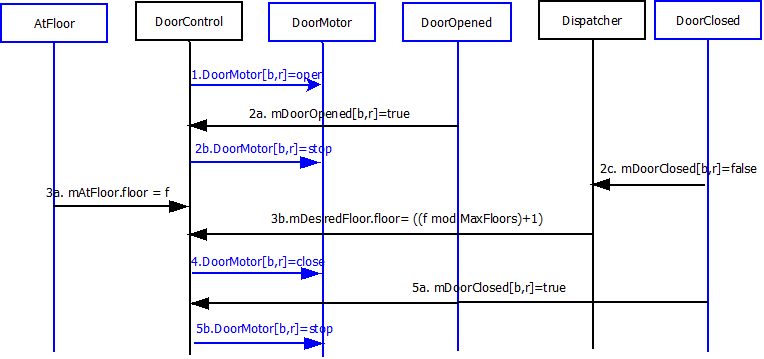
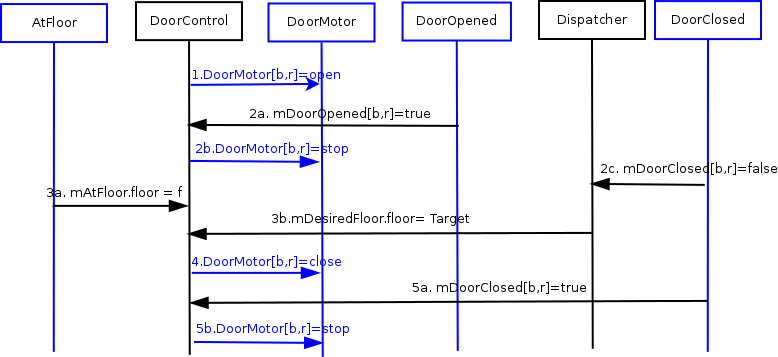
added sd_7e

Changed region(s): [[0.0, 0.0, 1.0, 1.0]]

diff --git a/scen_sd/scen_sd.html b/scen_sd/scen_sd.html
@@ -17,8 +17,6 @@
         Group 9- Yichao Xue &nbsp;&nbsp;&nbsp; &nbsp;&nbsp;&nbsp;
         yichaox<br>
         &nbsp;&nbsp;&nbsp; &nbsp;&nbsp;&nbsp; &nbsp;&nbsp;&nbsp;
-        &nbsp;&nbsp;&nbsp; Priya Mahajan&nbsp;&nbsp;&nbsp; priyam<br>
-        &nbsp;&nbsp;&nbsp; &nbsp;&nbsp;&nbsp; &nbsp;&nbsp;&nbsp;
         &nbsp;&nbsp;&nbsp; Wenhui Hu &nbsp;&nbsp;&nbsp;
         &nbsp;&nbsp;&nbsp; wenhuih <br>
         &nbsp;&nbsp;&nbsp; &nbsp;&nbsp;&nbsp; &nbsp;&nbsp;&nbsp;
@@ -66,7 +64,8 @@
         <ul>
           <li><a href="#scenario7c">Scenario 7C</a></li>
           <li><a href="#Scenario_7D">Scenario 7D</a> (Trace to
-            requirement R-T8.3)<br>
+            requirement R-T8.3)</li>
+          <li><a href="#Scenario_7E">Scenario 7E</a> <br>
           </li>
         </ul>
         <li><a href="#usecase8">8. Move Car to Next Floor</a></li>
@@ -205,9 +204,7 @@
         <li>Door[b, r] starts closing.</li>
         <li>The passenger presses the car call button CarCall[f, b] for
           desired destination [f, b].</li>
-        <ol>
-          <li>The CarLight[f,b] turns on.</li>
-        </ol>
+        <li>The CarLight[f,b] turns on.</li>
         <li>Doors complete closing.</li>
       </ol>
       <h3> Post-Conditions: </h3>
@@ -401,8 +398,7 @@
       <ul type="disc">
       </ul>
       <h3> Sequence Diagram: </h3>
-      <br>
-      <img alt="4A" src="SD_4A_wenhui.png" height="340" width="578"><br>
+      <img alt="4A" src="SD_4A_wenhui.png" height="338" width="578"><br>
       <hr size="2" width="100%">
       <h2> <a name="usecase5" id="usecase5"></a>Use Case 5: Passenger
         Triggers Door Reversal </h2>
@@ -480,14 +476,6 @@
       <h3> <a name="Scenario_6A"></a>Scenario 6A: Car moves from
         hallway f on floor x to adjacent hallway g on floor y and stops.
       </h3>
-      <p> Note: Recall that the Drive of the&nbsp;elevator we provided
-        is never commanded to go Fast, so the elevator only moves Slow
-        and can therefore stop right away when it sees the appropriate
-        AtFloor[f, b](True). Your solution will probably involve the
-        Drive going Fast for some portion of the trip, and the
-        CarLevelPosition Sensor to plan when to slow down. You will be
-        given information on how to design a Fast Drive in the upcoming
-        projects. For Project 2, a Slow Drive will suffice.</p>
       <h3> Author name: Priya Mahajan(priyam@andrew.cmu.edu)<br>
       </h3>
       <h3> Pre-Conditions: </h3>
@@ -601,7 +589,7 @@
           <b>d</b>.</li>
       </ul>
       <h3> Sequence Diagram: </h3>
-      <img alt="" src="SD_7A_YujiaWang.png" height="354" width="922"><br>
+      <img alt="7A" src="SD_7A_YujiaWang.png" height="360" width="860"><br>
       <div align="center">
         <hr align="center" size="2" width="100%"> </div>
       <h3> <a name="scenario7b" id="scenario7b"></a>Scenario 7B:
@@ -642,8 +630,7 @@
         <li>Elevator is at floor <b>f</b>.</li>
       </ul>
       <h3> Sequence Diagram: </h3>
-      <a href="SD_7B_YujiaWang.png"><img alt="7B"
-          src="SD_7B_YujiaWang.png" border="0" height="359" width="1136"></a><br>
+      <img alt="7B" src="SD_7B_YujiaWang.png" height="359" width="1136"><br>
       <div align="center">
         <hr align="center" size="2" width="100%"> </div>
       <h3> <a name="scenario7c" id="scenario7c"></a>Scenario 7C:
@@ -676,9 +663,9 @@
       <h3> Sequence Diagram:</h3>
       <img alt="" src="SD_7C_YujiaWang.png" height="295" width="781"><br>
       <hr size="2" width="100%"><br>
-      <h3><a name="Scenario_7D"></a>Scenario 7D: Elevator determines go
-        to {floor g, hallway c} first when there is car call for both
-        {floor g, hallway c} and {floor f, hallway b}</h3>
+      <h3><a name="Scenario_7D"></a>Scenario 7D: Elevator determines
+        desired floor when there is car call for both {floor g, hallway
+        c} and {floor f, hallway b}</h3>
       <h3>Author name: Wenhui Hu(wenhuih@andrew.cmu.edu)</h3>
       <p><b>Pre-Conditions:</b><br>
       </p>
@@ -690,10 +677,10 @@
       <b>Scenario:</b><br>
       <ol>
         <li>Passenger1 pushes car button for {floor g, hallway c} which
-          has same desired direction as d.<br>
+          is on the way of direction d.<br>
         </li>
         <li>Passenger2 pushes car button for {floor f, hallway b} which
-          has different desired direction as d.<br>
+          is not on the way of direction d.<br>
         </li>
         <li>Dispatcher sets mDesiredFloor.floor as g.<br>
         </li>
@@ -713,10 +700,54 @@
       </ul>
       <b>Sequence Diagram:<br>
         <img alt="7D" src="SD_7D_wenhui.png" height="319" width="1066"><br>
-      </b><br>
+        <br>
+      </b>
+      <hr size="2" width="100%"><br>
+      <h3><a name="Scenario_7E"></a>Scenario 7E: Elevator determines
+        desired floor when there is hall call for both {floor g, hallway
+        c, direction ~d} and {floor f, hallway b, direction ~d}</h3>
+      <h3>Author name: Wenhui Hu(wenhuih@andrew.cmu.edu)</h3>
+      <p><b>Pre-Conditions:</b><br>
+      </p>
+      <ul>
+        <li>Car stops at floor f0.</li>
+        <li>All doors are open.</li>
+        <li>CarLantern is already On for direction d.</li>
+      </ul>
+      <b>Scenario:</b><br>
+      <ol>
+        <li>Passenger1 pushes hall call button for {floor g, hallway c,
+          direction ~d} which is on the way of direction d and has
+          different desired direction as d.<br>
+        </li>
+        <li>Passenger2 pushes hall call button for {floor f, hallway b,
+          direction ~d} which is on the way of direction d and&nbsp; has
+          different desired direction as d.<br>
+        </li>
+        <li>Dispatcher sets mDesiredFloor.floor as max(abs(f0-f),
+          abs(f0-g)).<br>
+        </li>
+        <li>Door[b,r] starts closing.</li>
+        <li>Door[b,r] completes closing.</li>
+        <li>CarLantern[d] turns Off.<br>
+        </li>
+      </ol>
+      <b>Post-Conditions:</b><br>
+      <ul>
+        <li>All doors are closed.</li>
+        <li>All CarLanterns are off.<br>
+        </li>
+        <li>Elevator is at floor f0, intends to move to floor g in
+          direction d.</li>
+      </ul>
+      <p><b>Sequence Diagram:<br>
+          <img alt="7E" src="SD_7E_wenhui.png" height="319" width="1067"><br>
+        </b></p>
       <div align="center">
         <hr align="center" size="2" width="100%"></div>
-      <h2><a name="usecase8"></a> Use Case 8: Move Car to Next Floor </h2>
+      <h2><a name="usecase8" id="usecase8"></a>Use Case 8: Move Car to
+        Next Floor </h2>
+      <h2></h2>
       <h3> </h3>
       <h3><a name="Scenario_8A" id="usecase8"></a> Scenario 8A: Elevator
         moves from {floor f, hallway b} to {floor g, hallway c} in
@@ -772,7 +803,8 @@
         <li>Car is stoppe<b>d</b></li>
       </ul>
       <b>Sequence Diagram:</b><br>
-      <img alt="" src="SD_8B_YujiaWang.png" height="206" width="510"><br>
+      <br>
+      <img alt="8B" src="SD_8B_YujiaWang.png" height="204" width="530"><br>
       <hr size="2" width="100%"><b><br>
       </b>
       <h3><a name="Scenario_8C"></a>Scenario 8C: Elevator moves towards
@@ -811,9 +843,7 @@
       <h3><a name="scenario9a"></a> Scenario 9A: Elevator stops at
         hallway and doors open. Dispatcher computes next desired floor
         just as doors open. Doors close. </h3>
-      <p> Note: This dispatcher is really dumb and stops at every floor,
-        in order. It would be much better to stop only at floors with
-        people on them or that people want to go to. </p>
+      <p> </p>
       <h3> Author name: Wenhui Hu (wenhuih@andrew.cmu.edu)<br>
       </h3>
       <h3> </h3>
@@ -827,7 +857,7 @@
       <ol start="1" type="1">
         <li>Door[<b>b</b>,<b>r</b>] starts opening. </li>
         <li>Door[<b>b</b>,<b>r</b>] completes opening. </li>
-        <li>mDesiredFloor.floor is set to ((f mod MaxFloors)+1).<br>
+        <li>mDesiredFloor.floor is set to Target.<br>
         </li>
         <li>Door[<b>b</b>,<b>r</b>] starts closing. </li>
         <li>Door[<b>b</b>,<b>r</b>] completes closing. </li>
@@ -839,8 +869,8 @@
       </ul>
       <h3> Sequence Diagram: </h3>
       <h3> </h3>
-      &nbsp; <img alt="" src="SD_9A_wenhui.png" height="359"
-        width="764"><br>
+      &nbsp; <img alt="9A" src="SD_9A_wenhui.png" height="357"
+        width="778"><br>
     </div>
   </body>
 </html>
